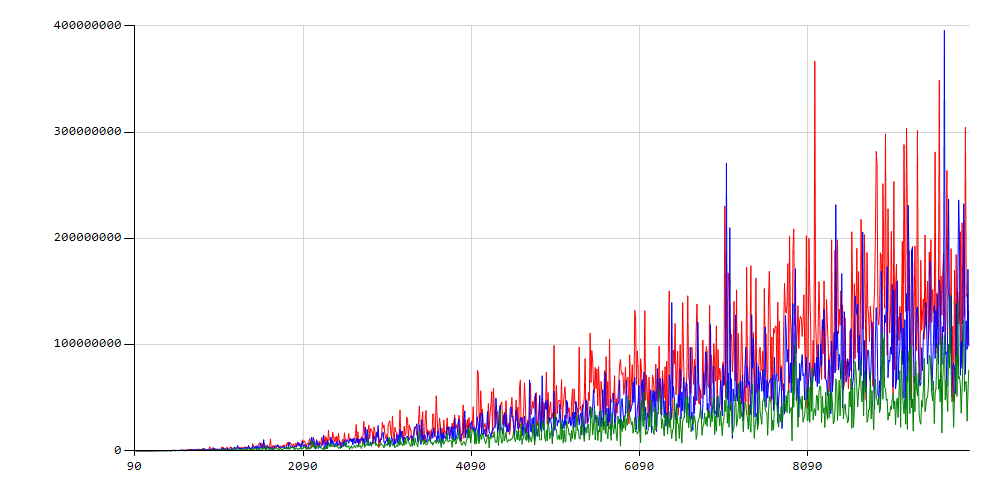
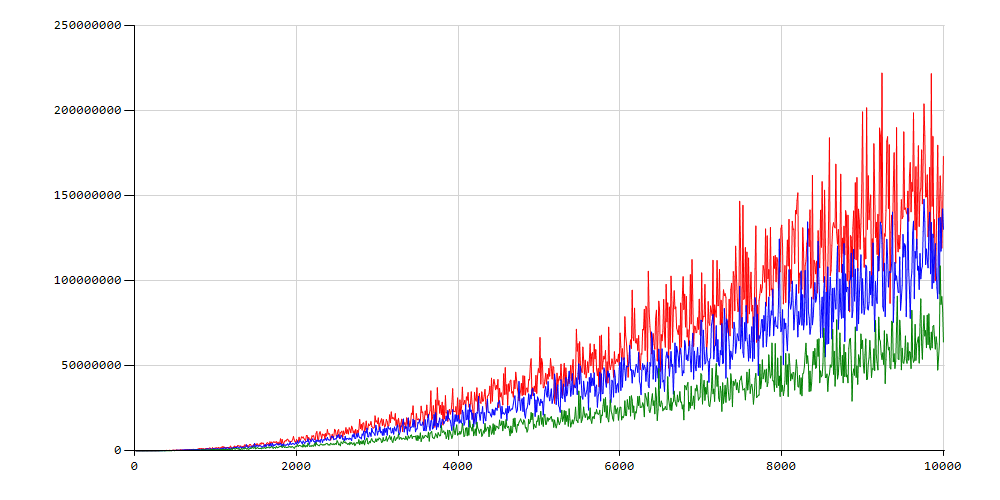
Quick sort

diff --git a/MetodyOptymalizacji/Proba/Chart/Program.cs b/MetodyOptymalizacji/Proba/Chart/Program.cs
@@ -12,7 +12,7 @@ namespace Proba
         {
             Console.WriteLine("Hello World!");
 
-            var result = new Tests().StartTest(20, 100, 10000, 10);
+            var result = new Tests().StartTest(100, 10, 10000, 10);
 
             var graph = new GraphGenerator();
             graph.AddSeries("quick", System.Windows.Forms.DataVisualization.Charting.SeriesChartType.Line, result.Item1.Select(x => (double) x.Key).ToList(), result.Item1.Select(x => x.Value.Item1).ToList(), Color.Red);

diff --git a/MetodyOptymalizacji/Proba/Proba/Program.cs b/MetodyOptymalizacji/Proba/Proba/Program.cs
@@ -10,7 +10,7 @@ namespace Proba
         {
             Console.WriteLine("Hello World!");
 
-            new Tests().StartTest(100, 1000, 10000, 100);
+            new Tests().StartTest(10, 10, 10000, 100);
 
 
         }

diff --git a/MetodyOptymalizacji/Proba/Chart/L1/AbstractSort.cs b/MetodyOptymalizacji/Proba/Chart/L1/AbstractSort.cs
@@ -26,7 +26,7 @@ namespace Proba.L1
 
         protected void Swap(ref int a, ref int b)
         {
-            _swaps++;
+            _swaps+=2;
             int temp = a;
             a = b;
             b = temp;

diff --git a/MetodyOptymalizacji/Proba/Proba/L1/AbstractSort.cs b/MetodyOptymalizacji/Proba/Proba/L1/AbstractSort.cs
@@ -26,7 +26,7 @@ namespace Proba.L1
 
         protected void Swap(ref int a, ref int b)
         {
-            _swaps++;
+            _swaps+=2;
             int temp = a;
             a = b;
             b = temp;
